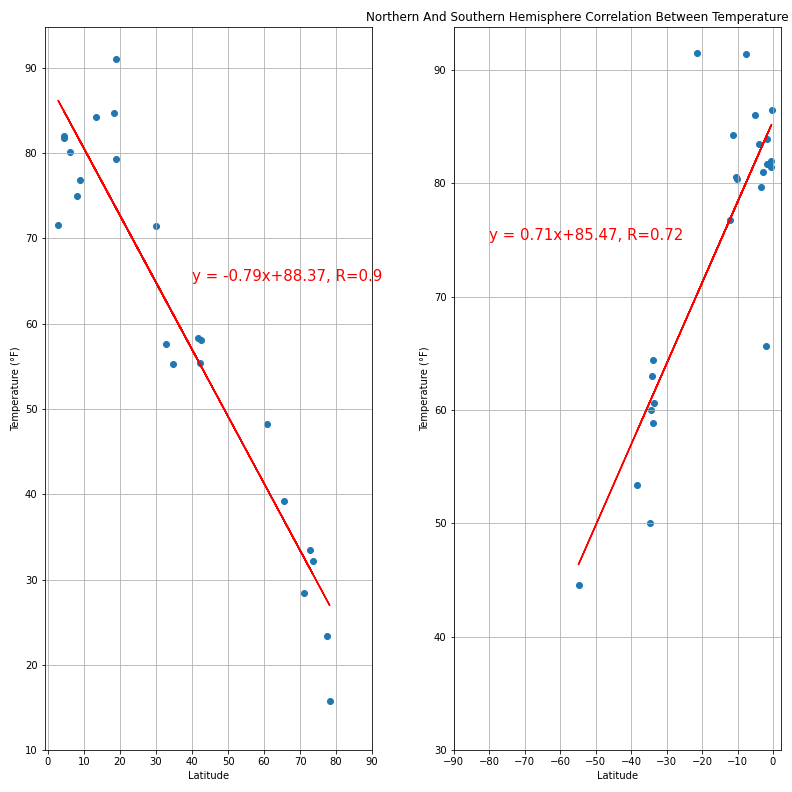
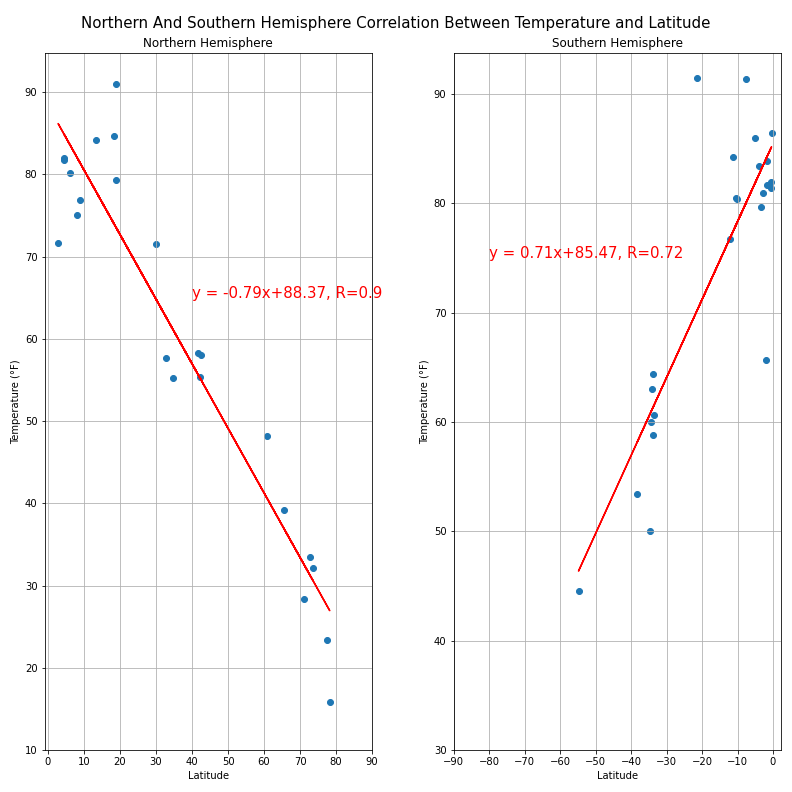
Fixes format of correlation graph

diff --git a/changelog.md b/changelog.md
@@ -20,3 +20,4 @@
 - Created linear regression for temperature vs latitude on both hemispheres
 - Fixed graphs, they now show side by side
 - Graphs are now saved in png format in the [plot_images](/plot_images) folder
+- Final formatting of the regression plots done
